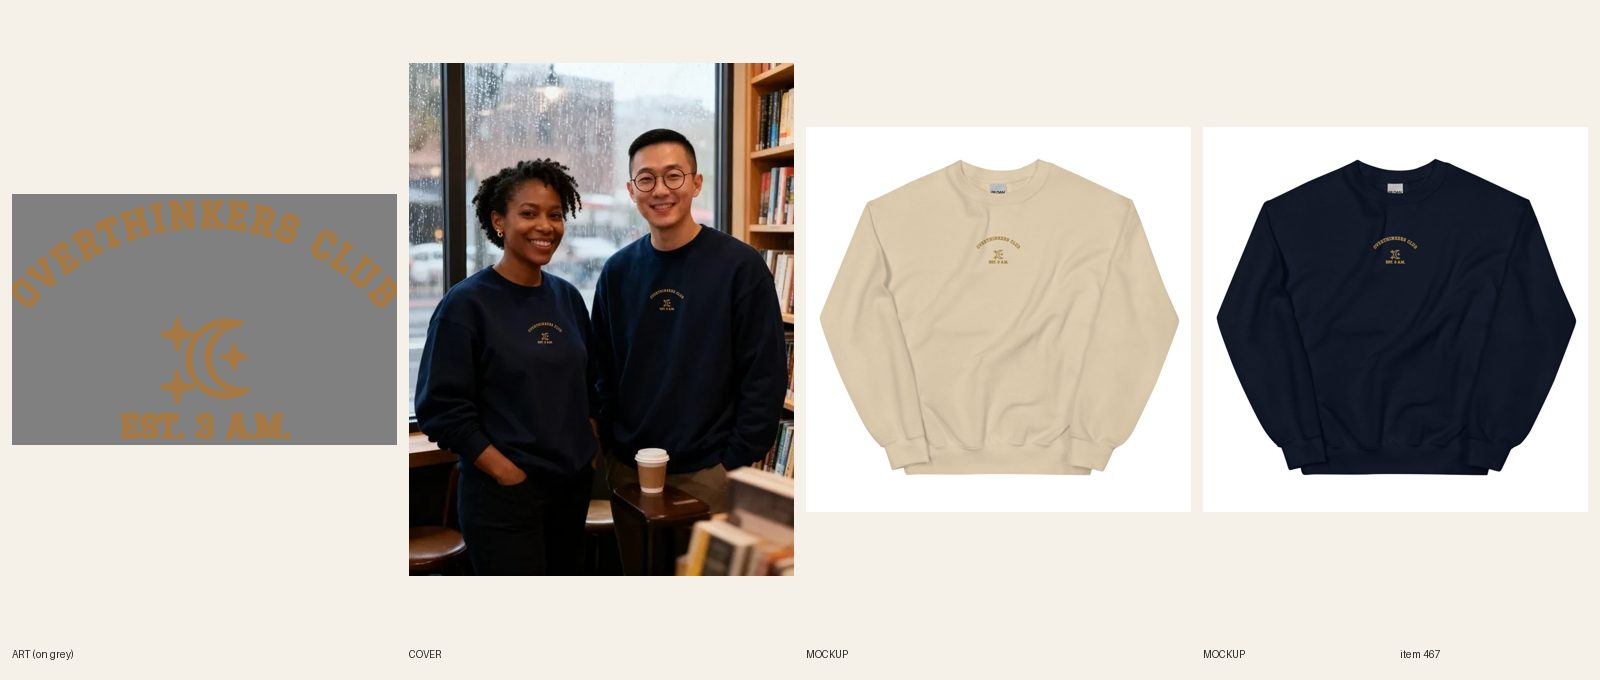
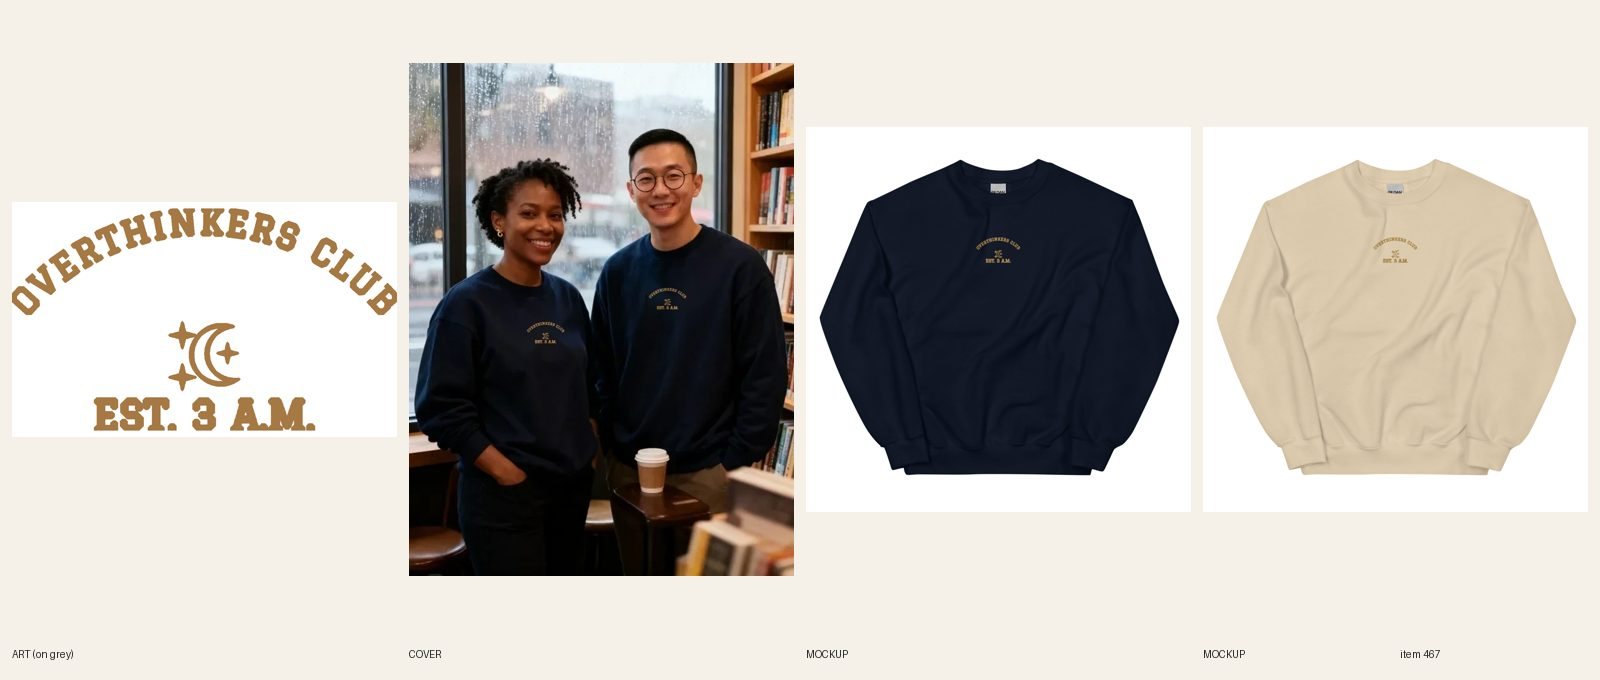
[B] review 467 Overthinkers Club embroidered crewneck (R4.8 re-lay)

Changed region(s): [[0.5, 0.2162, 1.0, 0.7103], [0.0, 0.2779, 0.25, 0.6794], [0.4062, 0.4015, 0.4375, 0.4632]]

diff --git a/docs/intake-log.md b/docs/intake-log.md
@@ -5,6 +5,7 @@ RUNNING lane B since 2026-10-18 08:30 UTC
 2026-10-18 08:39 UTC — [C] REVIEW #636 Men's Dog Dad Unpaid Doorman half zip (twin of #549; Dust brick-line file; back + chest DTF; cover composited; fal ~$0.12) (synced 14/14).
 2026-10-18 08:39 UTC — [C] Run summary: 13 hoodie items to REVIEW, all synced and audit-local PASS (0 warn): #604 Fishing Should've Been Here Yesterday, #605 Gym Lift Heavy. Reply Later. cropped (print re-laid to FW 1310 for the 1500 area), #606 Running Mile One Was a Mistake (new art), #607 Pickleball Kitchen Gossip Club (new art), #635 Out-Fished Him. Again. zip, #623 It Looked Smaller at the Farm oversized (re-laid to fit the 1650 area), #625 Rack Your Weights oversized, #622 Army Golf zip, #624 Switchbacks heavyweight, #620 Capybara Tangled zip, #621 Banned From Stairs, #626 Travel Ball zip, #636 Unpaid Doorman half zip. Every cover got the exact print composited (R6.9). fal about $0.9 today (cap $16 reached at $15.98, so #627 Christian heavyweight twin waits for tomorrow, still READY). New scripts: pf-dtf2-sync.py, pf-dtf-mockup.py. Lock released.
 2026-10-18 08:24 UTC — [D] Director run: inbox nothing new. Reviewed 13 REVIEW sheets: 11 LIVE (#581 mechanic, #578 pit bull vacuum, #604 fishing hoodie, #605 gym cropped hoodie, #584 car guy, #539 welder dimes, #635 fishing wife zip, #580 drummer, #623 Christmas tree oversized hoodie, #558 cat brain cell zip, #625 rack your weights oversized hoodie), all ACTIVE + Online Store/Headless/Google & YouTube, every audit --handle PASS 0 warn. Copy fixes in Shopify: #578/#539 FAQ claimed dark ink on dark shirts, #605 script called navy (it's cream), #584/#623/#625 'one of the <keyword>' phrasing (R8.3). 2 REDO: #606 Sand file still prints MILE ONE white with a keyline (R5.3.8), #607 cover holds a strung tennis racket on a pickleball hoodie (R6.5/R13.3). Rulebook: R5.3.8 'a light file means the headline changes ink' (3rd hit), R8.3 'one of the <keyword>' + no templated ink claims. #581 #625 to reference/best. 3 lane C briefs #637-#639 (welding hoodie 1,900/KD16, pit bull hoodie 1,300/KD22, car guy hoodie 390/KD36), registry 977-979, keyword map updated. READY: A 12, B 12, C 6, E 12. Lane C stays under 12: RankHero measured no other unclaimed hoodie phrase for a LIVE design without a near-copy (R11.5 'no near-copies to hit a number'); keyword-gap.py's JUNK filter drops hoodie/sweatshirt autocomplete, so hoodie long-tails must be measured directly. No Telegram (not a digest run, nothing needs Sam). Lock released.
+2026-10-18 09:06 UTC — [B] REVIEW #467 Overthinkers Club embroidered crewneck (REDO R4.8: EST. 3 A.M. now 0.35 in caps, re-synced 12/12, mockups + cover redone; fal $0). #466 hoodie re-link queued.
 2026-10-18 08:46 UTC — [B] REVIEW #542 Men's Golf Fairways Are a Rumor half zip (cover redo: clean fal cover, no composite patch; fal ~$0.06)
 2026-10-18 08:24 UTC — [D] Late REVIEW #577 Making Biscuits hoodie sent back REDO: Sand headline is cream with a keyline (R5.3.8, 4th hit); cover is Sand, so it gets the recomposite.
 2026-10-18 07:50 UTC — [B] REVIEW #584 Men's Car Guy I Speak Fluent Rattle tee — 70/70 synced; default file 49 on 1088709857 and 21 on 1088709846 (dark/light ink), back logo on all

diff --git a/docs/pipeline/467-embroidered-crew-overthinkers-club.md b/docs/pipeline/467-embroidered-crew-overthinkers-club.md
@@ -1,4 +1,4 @@
-status: BUILDING [B] 2026-10-18 08:48 UTC
+status: REVIEW
 lane: B
 type: twin
 id: 467
@@ -29,3 +29,4 @@ shopify: gid://shopify/Product/15364723147056
 
 - [B] 2026-10-18 builder: sync DONE, R7.7 default-file check on Printful: 12/12 synced; embroidery_chest_center 1088590042 on all 12, back logo on all. Variant-photo audit clean. Status REVIEW.
 - 2026-10-18 07:22 UTC director: REDO (stays DRAFT). R4.8 stitched text size: measured on docs/print-files/466-overthinkers-club-emb.png (1200 px = 4 in, 300 dpi): the EST. 3 A.M. line is 80 px tall = 0.27 in caps, under the 0.3 in minimum. Re-lay in emb-prep: EST. 3 A.M. at least 90 px caps (0.3 in), shrink the moon and stars to make room, keep the whole design inside 4 x 4 in; measure and log both lines (the arched OVERTHINKERS CLUB letters too). New Printful file, re-link 12/12, regenerate both mockups, re-composite the cover chest at true scale, remake docs/review/467.jpg. The LIVE hoodie #466 uses the same file: re-link it to the new file in place too (stays ACTIVE) and log it there.
+- 2026-10-18 09:05 UTC builder [B]: REDO R4.8 done. Re-laid docs/print-files/467-overthinkers-club-emb.png (1200x734 px = 4.00 x 2.45 in, inside 4x4): EST. 3 A.M. scaled x1.3 to 104 px caps = 0.35 in (was 80 px / 0.27), moon + stars shrunk x0.8 (strokes still above 1.5 mm), arched OVERTHINKERS CLUB unchanged at about 105 px caps = 0.35 in. New Printful file 1088770660; synced 12/12 on 482687968 (default-file check: embroidery_chest_center 1088770660 + back logo on all 12). Sand + Navy mockups regenerated and read; Shopify front/back images replaced in place; cover chest re-composited at true scale on both people (old print inpainted, zoomed, clean); review sheet remade; design crop refreshed; variant-photo audit clean; audit --handle only 'not visible'. fal $0. LIVE #466 hoodie re-link to the same file in progress (see its log).

diff --git a/docs/cohesion-audit.md b/docs/cohesion-audit.md
@@ -1,6 +1,6 @@
-# Cohesion audit — 2026-10-18 07:52 UTC
+# Cohesion audit — 2026-10-18 08:35 UTC
 
-548 live products checked · **0 errors** · 29 warnings · 27 products with findings
+559 live products checked · **0 errors** · 29 warnings · 27 products with findings
 
 ERROR = a shopper or Google would see something wrong (wrong person, wrong garment, wrong grid, wrong price, missing photos, keyword collision). Fix before anything new ships. WARN = polish.
 
